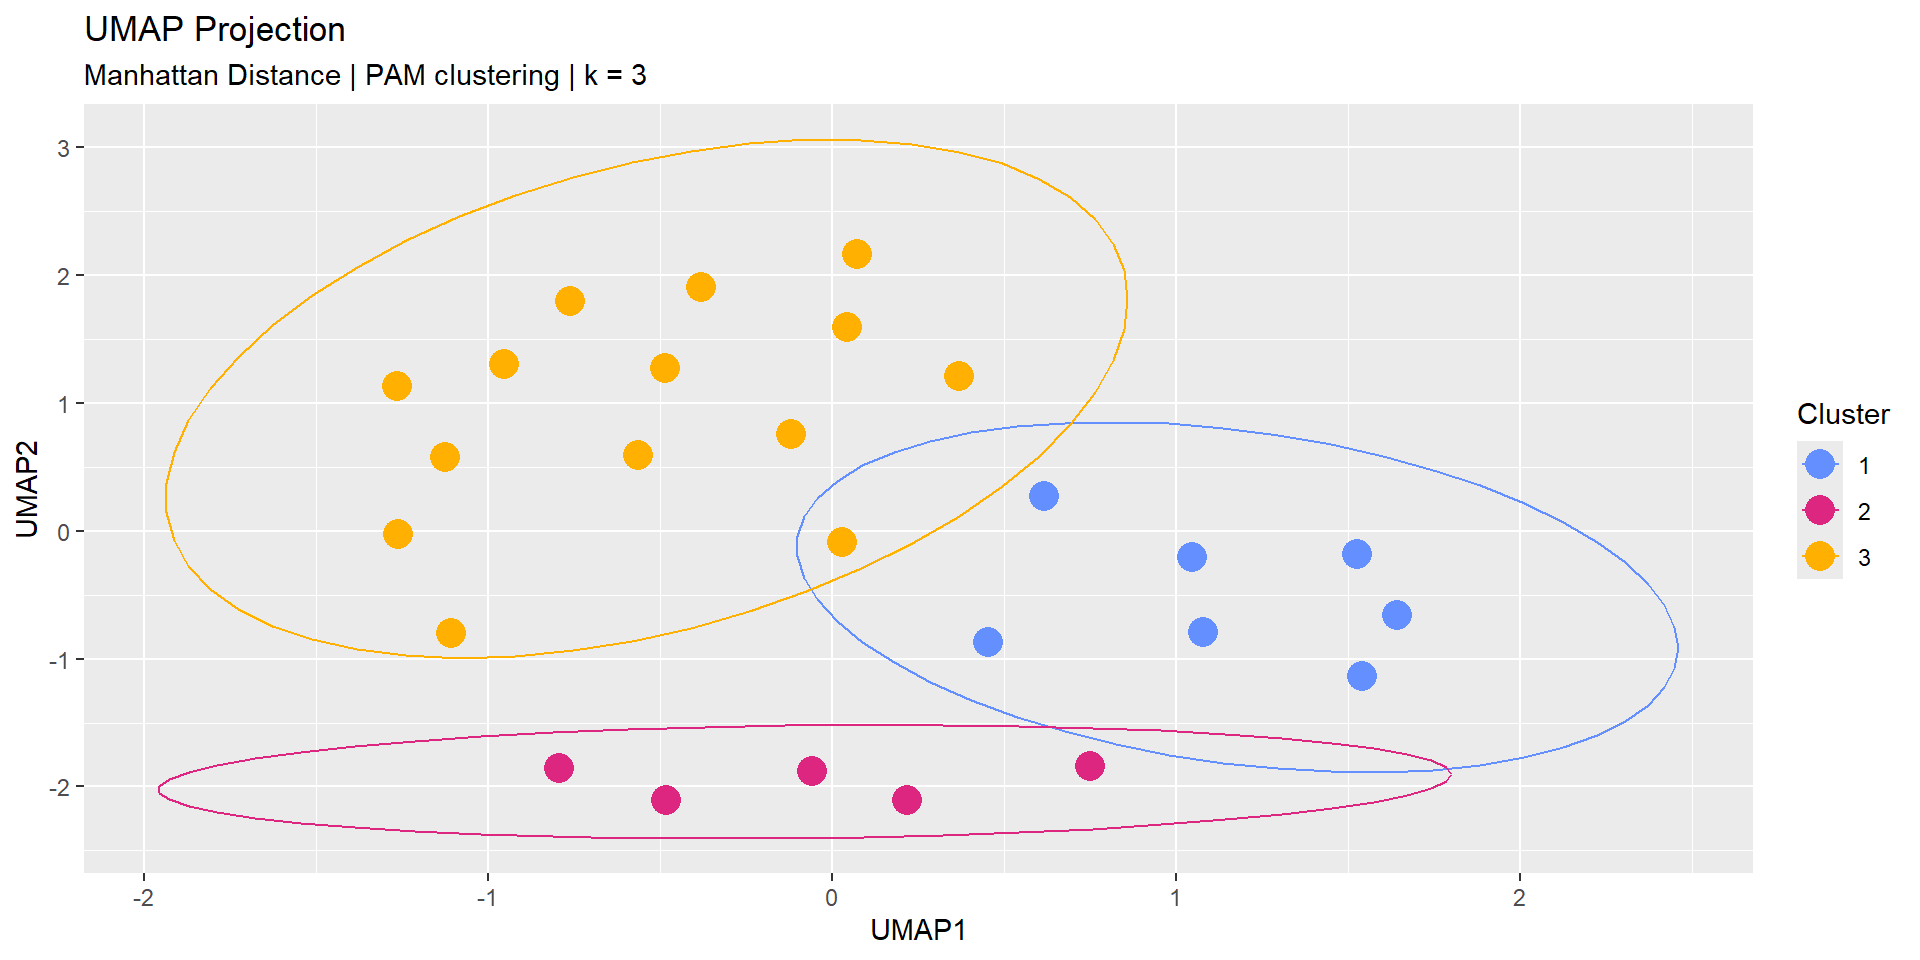
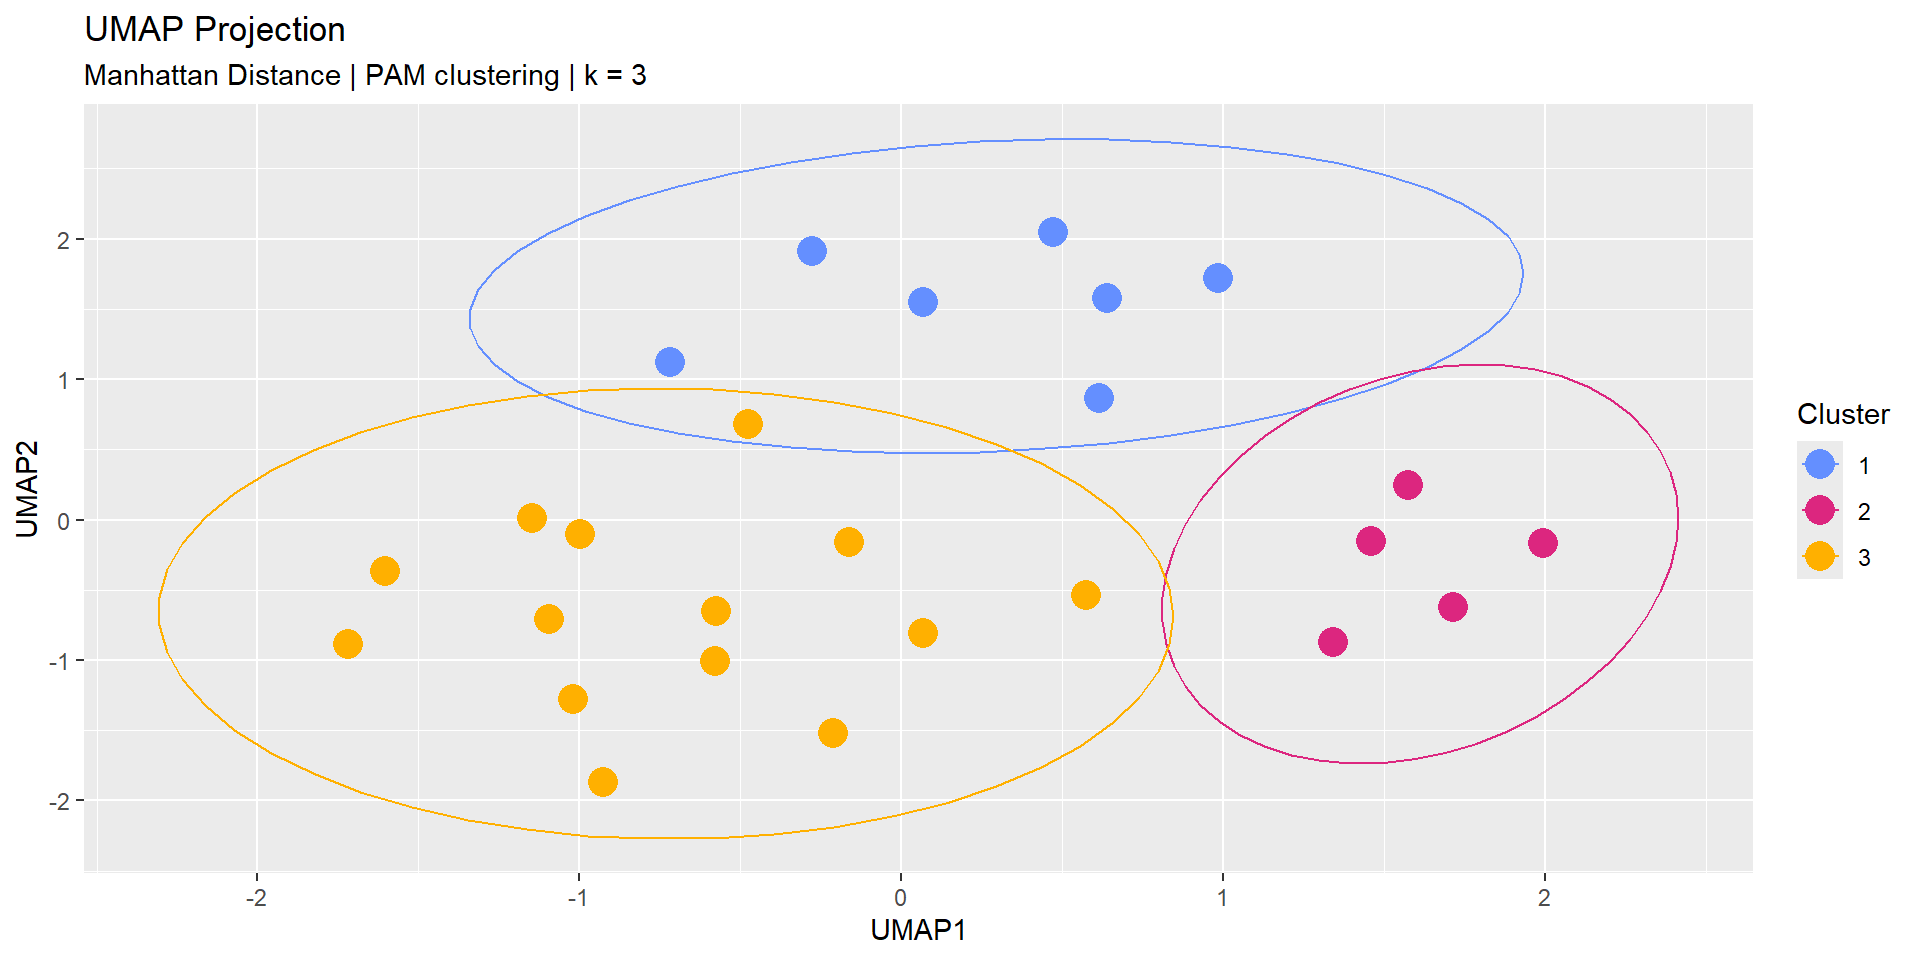
fixing 2.6 to make more clearer

diff --git a/Text/Reports/Presentation.html b/Text/Reports/Presentation.html
@@ -1492,23 +1492,39 @@ Gaia Smith and Alice Thompson
 <section id="initial-qq-plots" class="slide level2">
 <h2>2.2 initial QQ-plots</h2>
 
-<img data-src="https://raw.githubusercontent.com/luke8471/STAT394-GROUP-3/main/Figures/QQ_allnorm%201a.png" class="r-stretch"></section>
+<img data-src="https://raw.githubusercontent.com/luke8471/STAT394-GROUP-3/main/Figures/QQ_all%201a.png" class="r-stretch"></section>
 <section id="initial-qq-plots-1" class="slide level2">
 <h2>2.2 initial QQ-plots</h2>
 
-<img data-src="https://raw.githubusercontent.com/luke8471/STAT394-GROUP-3/main/Figures/QQ_allnorm%201b.png" class="r-stretch"></section>
+<img data-src="https://raw.githubusercontent.com/luke8471/STAT394-GROUP-3/main/Figures/QQ_all%201b.png" class="r-stretch"></section>
 <section id="initial-qq-plots-2" class="slide level2">
 <h2>2.2 initial QQ-plots</h2>
 
-<img data-src="https://raw.githubusercontent.com/luke8471/STAT394-GROUP-3/main/Figures/QQ_allnorm%201c.png" class="r-stretch"></section>
+<img data-src="https://raw.githubusercontent.com/luke8471/STAT394-GROUP-3/main/Figures/QQ_all%201c.png" class="r-stretch"></section>
 <section id="initial-qq-plots-3" class="slide level2">
 <h2>2.2 initial QQ-plots</h2>
 
-<img data-src="https://raw.githubusercontent.com/luke8471/STAT394-GROUP-3/main/Figures/QQ_allnorm%201d.png" class="r-stretch"></section>
+<img data-src="https://raw.githubusercontent.com/luke8471/STAT394-GROUP-3/main/Figures/QQ_all%201d.png" class="r-stretch"></section>
 <section id="performing-log-transformations" class="slide level2">
 <h2>2.3 Performing Log Transformations</h2>
 
 <img data-src="https://raw.githubusercontent.com/luke8471/STAT394-GROUP-3/main/Figures/notchboxnorm.png" class="r-stretch"></section>
+<section id="log-transformed-qq-plots" class="slide level2">
+<h2>2.3 log Transformed QQ-plots</h2>
+
+<img data-src="https://raw.githubusercontent.com/luke8471/STAT394-GROUP-3/main/Figures/QQ_allnorm%201a.png" class="r-stretch"></section>
+<section id="log-transformed-qq-plots-1" class="slide level2">
+<h2>2.3 log Transformed QQ-plots</h2>
+
+<img data-src="https://raw.githubusercontent.com/luke8471/STAT394-GROUP-3/main/Figures/QQ_allnorm%201b.png" class="r-stretch"></section>
+<section id="log-transformed-qq-plots-2" class="slide level2">
+<h2>2.3 log Transformed QQ-plots</h2>
+
+<img data-src="https://raw.githubusercontent.com/luke8471/STAT394-GROUP-3/main/Figures/QQ_allnorm%201c.png" class="r-stretch"></section>
+<section id="log-transformed-qq-plots-3" class="slide level2">
+<h2>2.3 log Transformed QQ-plots</h2>
+
+<img data-src="https://raw.githubusercontent.com/luke8471/STAT394-GROUP-3/main/Figures/QQ_allnorm%201d.png" class="r-stretch"></section>
 <section id="henze-zirkler-test-for-multivariate-normality" class="slide level2">
 <h2>2.4 Henze-Zirkler Test For Multivariate Normality</h2>
 <div class="center">
@@ -1746,6 +1762,7 @@ Gaia Smith and Alice Thompson
 <section id="henze-zirkler-test-for-multivariate-normality-2" class="slide level2">
 <h2>2.6 Henze-Zirkler Test for Multivariate Normality</h2>
 <div class="center" style="font-size: 1.3em;">
+<p>HZ test on OG data:</p>
 <div class="cell">
 <div class="cell-output cell-output-stdout">
 <pre><code>Henze_Zirkler Test Results:</code></pre>
@@ -1754,6 +1771,9 @@ Gaia Smith and Alice Thompson
 <pre><code>           Test Statistic p.value     Method          MVN
 1 Henze-Zirkler     1.001  &lt;0.001 asymptotic ✗ Not normal</code></pre>
 </div>
+</div>
+<p>HZ test after all transformations:</p>
+<div class="cell">
 <div class="cell-output cell-output-stdout">
 <pre><code>Henze_Zirkler Test Results:</code></pre>
 </div>
@@ -1792,8 +1812,8 @@ Gaia Smith and Alice Thompson
 
 </section>
 
-<section id="pam" class="slide level2">
-<h2>3.1 PAM</h2>
+<section id="pam---linear-analysis" class="slide level2">
+<h2>3.1 PAM - Linear analysis</h2>
 <div class="cell">
 <div class="cell-output cell-output-stdout">
 <pre><code>  cluster size ave.sil.width
@@ -1804,62 +1824,10 @@ Gaia Smith and Alice Thompson
 
 </div>
 <img data-src="Presentation_files/figure-revealjs/LDA-1.png" width="960" class="r-stretch"></section>
-<section id="pam-1" class="slide level2">
+<section id="pam" class="slide level2">
 <h2>3.1 PAM</h2>
-<div class="cell">
-<div class="cell-output-display">
-<table class="table caption-top" style="font-size: 30px; margin-left: auto; margin-right: auto;">
-<caption>Top five cluster choices ranked by average silhouette width.</caption>
-<thead>
-<tr class="header">
-<th style="text-align: right;" data-quarto-table-cell-role="th">k</th>
-<th style="text-align: right;" data-quarto-table-cell-role="th">Avg_Silhouette</th>
-<th style="text-align: right;" data-quarto-table-cell-role="th">Smallest_Cluster</th>
-<th style="text-align: right;" data-quarto-table-cell-role="th">Largest_Cluster</th>
-<th style="text-align: left;" data-quarto-table-cell-role="th">Cluster_Sizes</th>
-</tr>
-</thead>
-<tbody>
-<tr class="odd">
-<td style="text-align: right;">3</td>
-<td style="text-align: right;">0.246</td>
-<td style="text-align: right;">5</td>
-<td style="text-align: right;">15</td>
-<td style="text-align: left;">6, 5, 15</td>
-</tr>
-<tr class="even">
-<td style="text-align: right;">2</td>
-<td style="text-align: right;">0.182</td>
-<td style="text-align: right;">7</td>
-<td style="text-align: right;">19</td>
-<td style="text-align: left;">7, 19</td>
-</tr>
-<tr class="odd">
-<td style="text-align: right;">5</td>
-<td style="text-align: right;">0.179</td>
-<td style="text-align: right;">4</td>
-<td style="text-align: right;">7</td>
-<td style="text-align: left;">6, 5, 4, 7, 4</td>
-</tr>
-<tr class="even">
-<td style="text-align: right;">6</td>
-<td style="text-align: right;">0.176</td>
-<td style="text-align: right;">3</td>
-<td style="text-align: right;">7</td>
-<td style="text-align: left;">5, 5, 3, 3, 7, 3</td>
-</tr>
-<tr class="odd">
-<td style="text-align: right;">8</td>
-<td style="text-align: right;">0.170</td>
-<td style="text-align: right;">1</td>
-<td style="text-align: right;">7</td>
-<td style="text-align: left;">5, 4, 2, 1, 3, 7, 3, 1</td>
-</tr>
-</tbody>
-</table>
-</div>
-</div>
-</section>
+
+<img data-src="https://raw.githubusercontent.com/luke8471/STAT394-GROUP-3/main/Figures/PAM.png" class="r-stretch"></section>
 <section id="cluster-analysis-using-manhattan-distance" class="slide level2">
 <h2>3.2 Cluster Analysis using Manhattan Distance</h2>
 
@@ -1868,12 +1836,12 @@ Gaia Smith and Alice Thompson
 <h2>3.2 Cluster Analysis using Manhattan Distance</h2>
 
 <img data-src="Presentation_files/figure-revealjs/UMAP-1.png" width="960" class="r-stretch"></section>
-<section id="cluster-analysis-using-manhattan-distance-2" class="slide level2">
-<h2>3.2 Cluster Analysis using Manhattan Distance</h2>
+<section id="umap" class="slide level2">
+<h2>3.2 UMAP</h2>
 
-<img data-src="Presentation_files/figure-revealjs/UMAP2-1.png" width="960" class="r-stretch"></section>
-<section id="fuzzy-analysis" class="slide level2">
-<h2>3.3 Fuzzy Analysis</h2>
+<img data-src="https://raw.githubusercontent.com/luke8471/STAT394-GROUP-3/main/Figures/UMAP.png" class="r-stretch"></section>
+<section id="fuzzy-cluster-analysis" class="slide level2">
+<h2>3.3 Fuzzy Cluster Analysis</h2>
 <div class="columns">
 <div class="column" style="width:50%;">
 <div class="cell">
@@ -2072,34 +2040,35 @@ Gaia Smith and Alice Thompson
 </div>
 </div></div>
 </section>
-<section id="fuzzy-analysis-1" class="slide level2">
+<section id="fuzzy-analysis" class="slide level2">
 <h2>3.3 Fuzzy Analysis</h2>
 
 <img data-src="Presentation_files/figure-revealjs/fuzzy1-1.png" width="960" class="r-stretch"></section>
-<section id="fuzzy-analysis-2" class="slide level2">
+<section id="fuzzy-analysis-1" class="slide level2">
 <h2>3.3 Fuzzy Analysis</h2>
 
 <img data-src="Presentation_files/figure-revealjs/fuzzy2-1.png" width="960" class="r-stretch"></section>
-<section id="fuzzy-analysis-3" class="slide level2">
+<section id="fuzzy-analysis-2" class="slide level2">
 <h2>3.3 Fuzzy Analysis</h2>
 
 <img data-src="Presentation_files/figure-revealjs/fuzzy3-1.png" width="960" class="r-stretch"></section>
-<section id="fuzzy-analysis-4" class="slide level2">
+<section id="fuzzy-analysis-3" class="slide level2">
 <h2>3.3 Fuzzy Analysis</h2>
 
 <img data-src="https://raw.githubusercontent.com/luke8471/STAT394-GROUP-3/main/Figures/Avg%20width%20of%20cluster.png" class="r-stretch"></section>
-<section id="fuzzy-analysis-5" class="slide level2">
+<section id="fuzzy-analysis-4" class="slide level2">
 <h2>3.3 Fuzzy Analysis</h2>
 
-<img data-src="Presentation_files/figure-revealjs/fuzzy5-1.png" width="960" class="r-stretch"></section>
-<section id="results" class="slide level2">
-<h2>4. Results</h2>
-<ul>
-<li class="fragment"><p>We are unable to make direct</p></li>
-<li class="fragment"><p><span class="citation" data-cites="Caponetti2017-fd">Caponetti, Armetta, Brusca, et al. (<a href="#/references" role="doc-biblioref" onclick="">2017</a>)</span> determined that the quantity of sample was attributed to error generation. Both samples S38 and S08 had respective quantities 12.3mg and 16.0mg. The average amount of material sampled was reported at ~20mg.</p></li>
-<li class="fragment"><p>The original study only had access to 38/40 ingots as they were on loan to another institute. This is an extension of that analysis, increasing the sample size at this point of the data analysis would inflate the false positive rate.</p></li>
-</ul>
+<img data-src="https://raw.githubusercontent.com/luke8471/STAT394-GROUP-3/main/Figures/Fuzzy.png" class="r-stretch"></section>
+<section id="results" class="title-slide slide level1 centre center">
+<h1>4. Results</h1>
+
 </section>
+
+<section id="ari-heat-map-comparing-the-different-methods" class="slide level2">
+<h2>4.1 ARI Heat-map comparing the different methods</h2>
+
+<img data-src="https://raw.githubusercontent.com/luke8471/STAT394-GROUP-3/main/Figures/ARI_heatmap.png" class="r-stretch"></section>
 <section id="discussion" class="slide level2">
 <h2>5. Discussion</h2>
 <ul>
